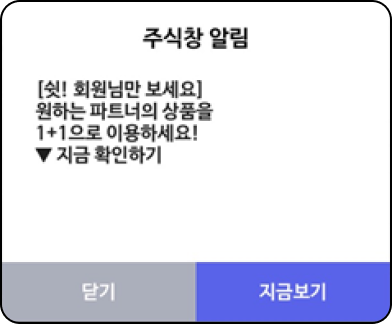
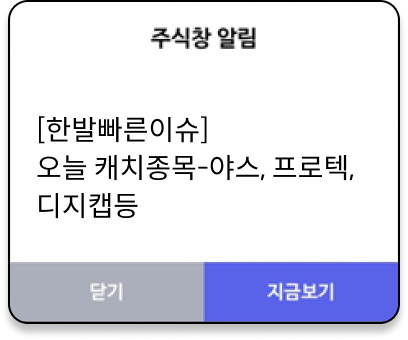
이미지 및 css변경 & 팁 가입버튼 삭제

Changed region(s): [[0.0, 0.0, 1.0, 1.0], [0.0918, 0.2469, 0.8878, 0.6481], [0.3673, 0.0617, 0.6429, 0.1543]]

diff --git a/assets/css/signal.css b/assets/css/signal.css
@@ -58,7 +58,7 @@
   @apply w-full flex justify-center
 }
 .item_info_catch .item_card .card > div{
-  @apply w-[calc(100%-40px)] bg-white p-5 rounded-[16px] relative shadow-card
+  @apply w-[calc(100%-40px)] h-[200px] bg-white p-5 rounded-[16px] relative shadow-card
 }
 .item_info_catch .item_card .card strong{
   @apply block h-6 leading-6 text-[16px] text-[#333] font-bold
@@ -209,7 +209,7 @@
   @apply w-full mt-[30px] min-h-[613px] relative
 }
 .signal_catch_w .list_w.notJoin{
-  @apply overflow-hidden rounded-3xl
+  @apply overflow-hidden rounded-3xl !important
 }
 .signal_catch_w .list_w .notJoinBox{
   @apply absolute inset-0 bg-[url('~/assets/img/bg-paper.png')] bg-no-repeat bg-[length:100%_100%] hidden

diff --git a/assets/css/quickCatch.css b/assets/css/quickCatch.css
@@ -188,7 +188,7 @@
   @apply w-full rounded-[4px] h-[45px] border-[1px] border-[#dfe3e7] bg-[#f8f8f8] gap-[2px] flex justify-center items-center text-[14px] text-[#666]
 }
 .quickIssueItem .catch_item_list .issue_item .list .notJoinBox{
-  @apply absolute inset-0 w-full h-full bg-[#2b324a] bg-opacity-40 hidden justify-center items-center flex-col gap-[70px] backdrop-blur-[7.5px]
+  @apply absolute inset-0 w-full h-full bg-[#2b324a] bg-opacity-40 hidden justify-center items-center flex-col gap-[70px] backdrop-blur-[7.5px] !important
 }
 .quickIssueItem .catch_item_list .issue_item .list.notJoin .notJoinBox *{
   @apply blur-none !important

diff --git a/assets/css/todayIssue.css b/assets/css/todayIssue.css
@@ -112,7 +112,7 @@
   @apply not-italic text-[#CBFFF6]
 }
 .day_issue .top_issue .list{
-  @apply w-full mt-2.5 rounded-[10px] bg-white p-3 flex flex-col gap-2.5
+  @apply w-full mt-2.5 rounded-[10px] bg-white p-3 flex flex-col gap-2
 }
 .day_issue .top_issue .list > div{
   @apply flex w-full gap-[9px] items-center

diff --git a/pages/quickIssueTip.vue b/pages/quickIssueTip.vue
@@ -256,9 +256,9 @@
         </div>
       </div>
 
-      <div class="btn-box">
+      <!-- <div class="btn-box">
         <button>AI캐치 가입하기</button>
-      </div>
+      </div> -->
     </section>
     <!-- 영상 -->
   </div>

diff --git a/pages/todayIssueTip.vue b/pages/todayIssueTip.vue
@@ -206,9 +206,9 @@
         </div>
       </div>
 
-      <div class="btn-box">
+      <!-- <div class="btn-box">
         <button>AI캐치 가입하기</button>
-      </div>
+      </div> -->
     </section>
     <!-- 영상 -->
   </div>
